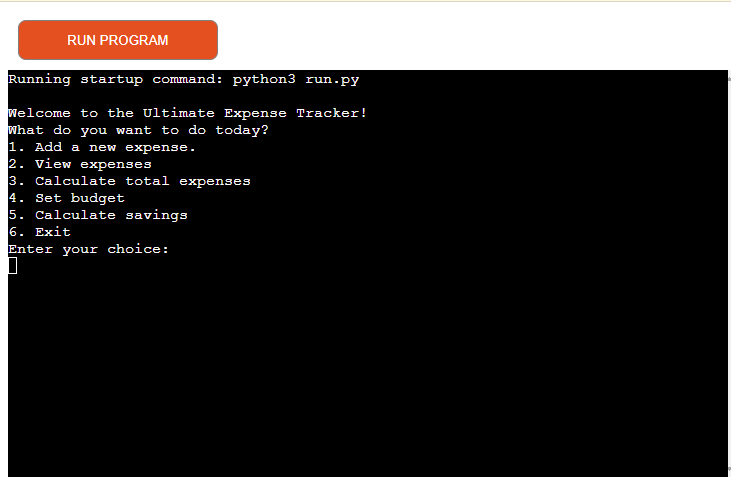
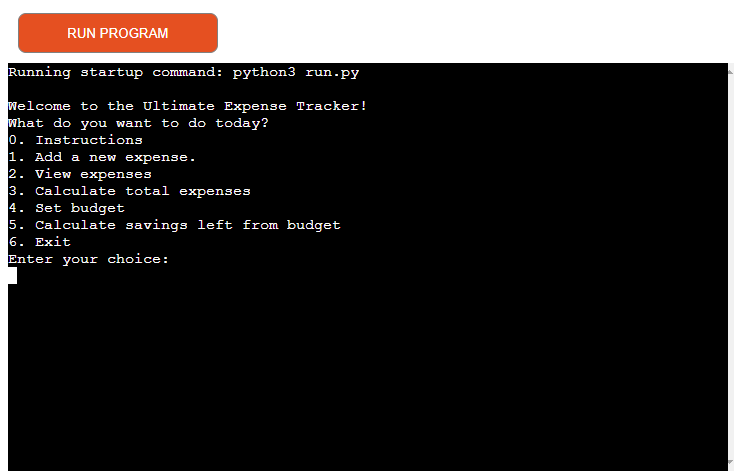
Update README with new menu pictures

diff --git a/README.md b/README.md
@@ -43,14 +43,21 @@ The Ultimate Expense Tracker is a flexible and customizable solution that can be
 ![Menu image](readme/menu.PNG)
 
 The application starts with a menu where the user is presented with different options:
-1. Add a new expense.
+0. Instructions
+1. Add a new expense
 2. View expenses
 3. Calculate total expenses
 4. Set budget
-5. Calculate savings
+5. Calculate savings left from budget
 6. Exit
 
 The menu is easy to use and each option explains to the user exactly what the application is offering.
+
+## Intructions
+
+![Help](readme/help.PNG)
+
+Provide users with instructions on what can be achieved with every options of the menu. 
 
 ## Add a new expense
 
@@ -78,7 +85,7 @@ According to the option chosen, the user will be prompted to either enter a cate
 
 In this part of the application the user can set a budget for a certain month. 
 
-## Calculate savings
+## Calculate savings left from budget
 
 ![Calculate savings](readme/calculate-savings.PNG)
 
